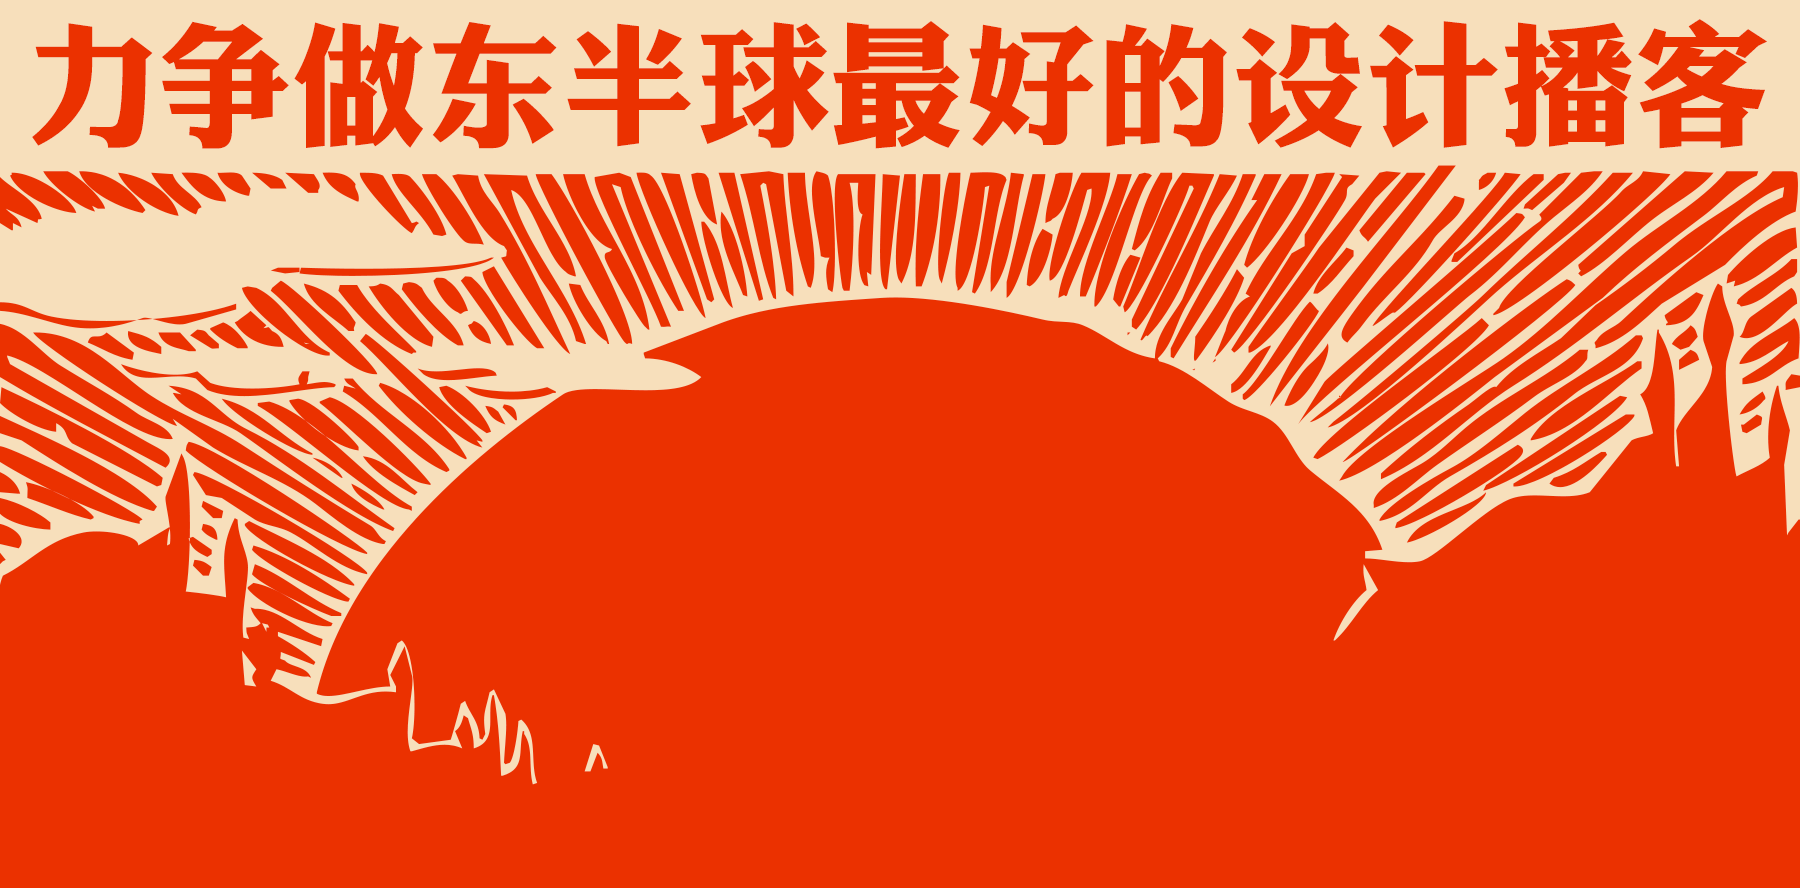
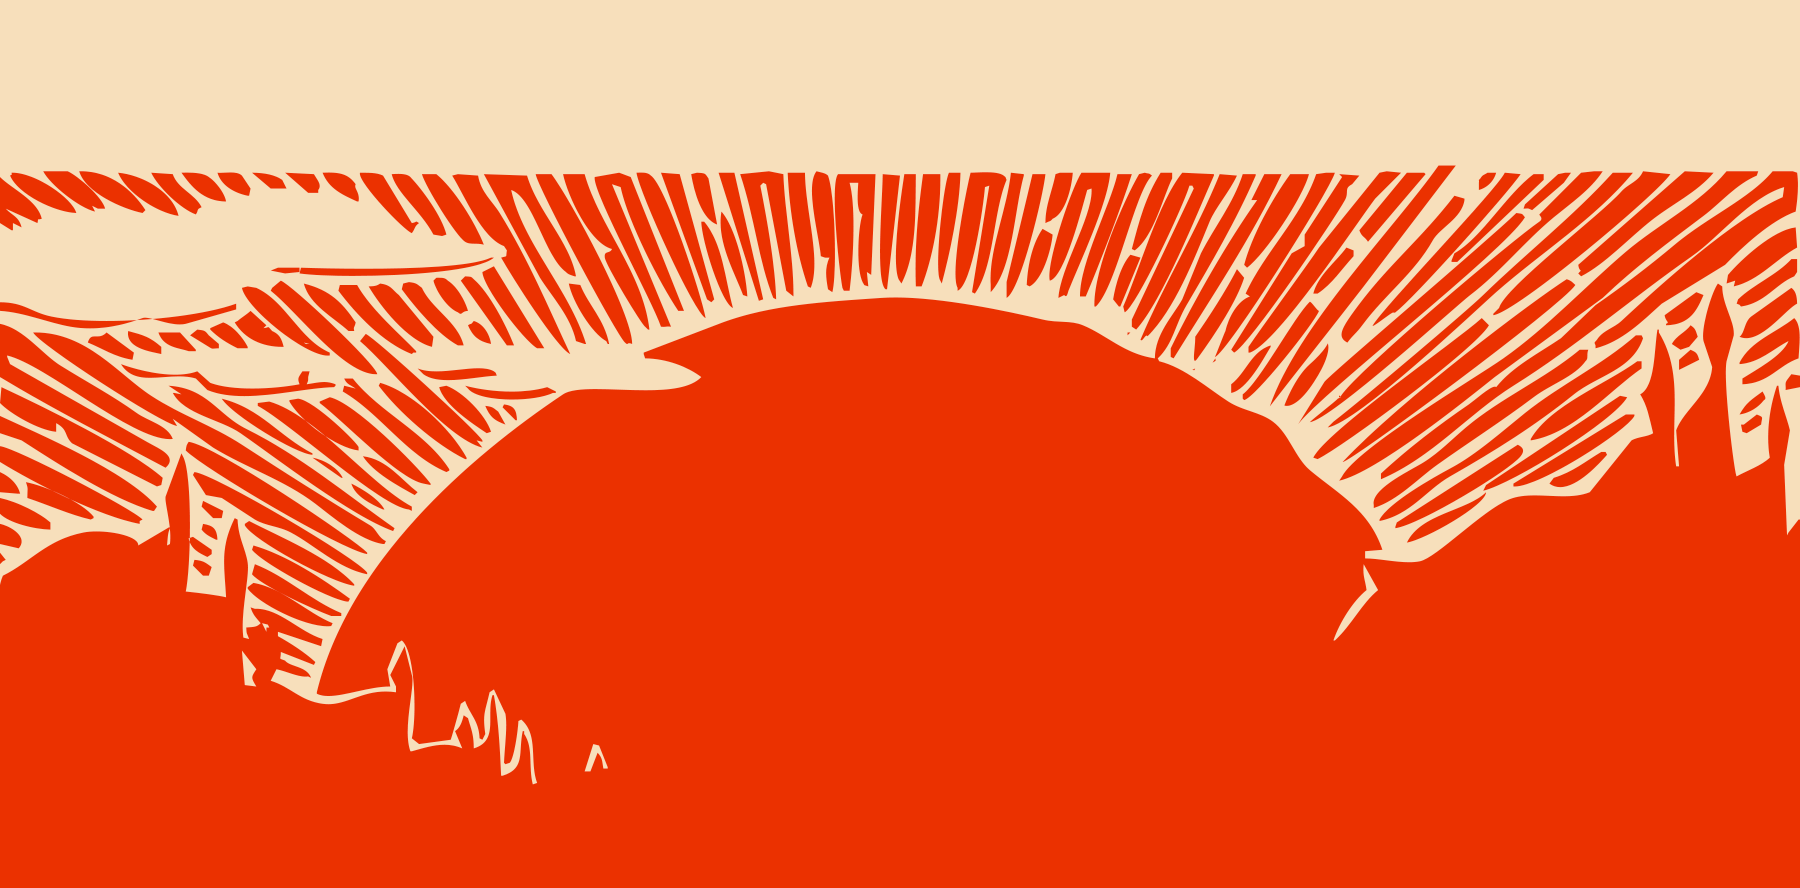
Updated style

Changed region(s): [[0.0, 0.0304, 0.9956, 0.1824]]

diff --git a/main.css b/main.css
@@ -191,14 +191,18 @@ h1 .p3{
 }
 /*~Header*/
 header{
-	background: url('2.png') no-repeat top center;
-	background-size: cover;
+	background: url('3.png') no-repeat center center;
+	background-size: contain;
 	position: fixed;
 	top: .6rem;
 	left: 0;
 	width: 100vw;
 	height: 19.5vh;
-	border-bottom: 10px solid #eb3100;
+}
+header a{
+	display: block;
+	width: 100%;
+	height: 100%;
 }
 @media screen and (max-width: 1000px) {
 	body{

diff --git a/_layouts/default.html b/_layouts/default.html
@@ -10,7 +10,7 @@
 <body>
 
 <header>
-<!--	© 2015 ~ 2017 <a href="http://anyway.fm">Anyway.FM</a> 保留所有權利-->
+	<a href="http://Anyway.FM" target="_blank">返回正常版</a>
 </header>
 
 	

diff --git a/demo.html b/demo.html
@@ -10,7 +10,7 @@
 <body>
 
 <header>
-<!--	© 2015 ~ 2017 <a href="http://anyway.fm">Anyway.FM</a> 保留所有權利-->
+	<a href="http://Anyway.FM" target="_blank"></a>
 </header>
 
 	
